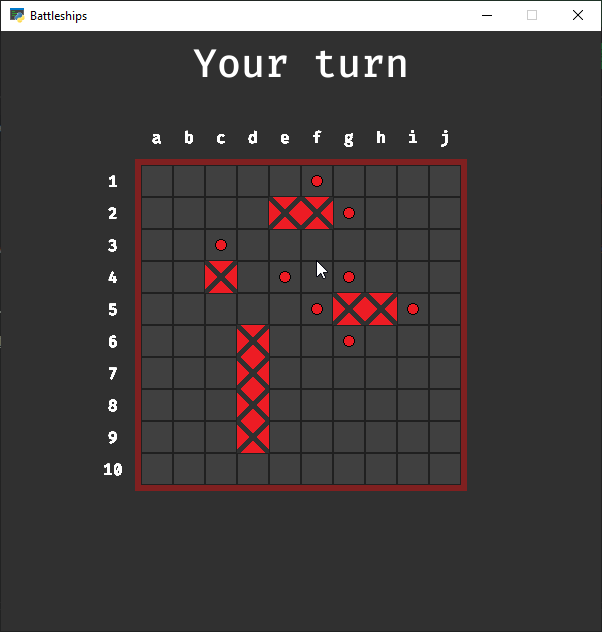
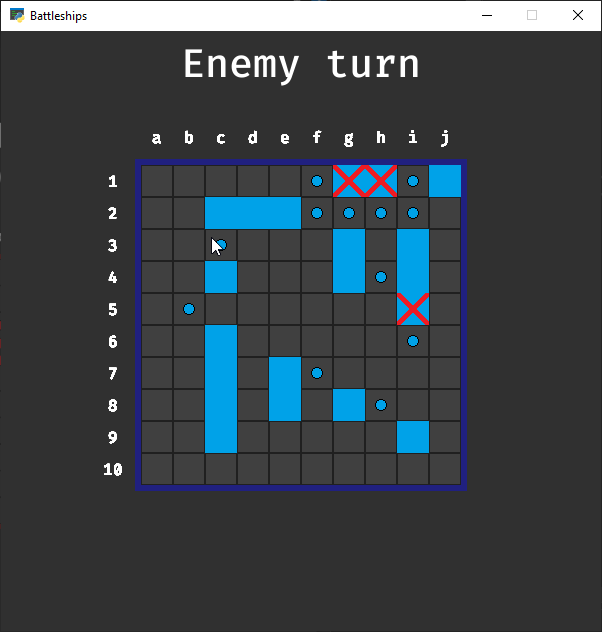
difficulty levels added

diff --git a/Battleships/src/Game.py b/Battleships/src/Game.py
@@ -22,10 +22,13 @@ class Turn(Enum):
     Enemy_To_Player = 4
 
 class Game:
-    def __init__(self):
-        self.start_game()
+    def __init__(self, difficulty: int):
+        self.start_game(difficulty)
         
-    def start_game(self):
+    def start_game(self, difficulty: int):
+        
+        self.difficulty = difficulty
+        
         self.player = Mapa.Mapa()
         self.player.generate_ships()
         
@@ -51,8 +54,7 @@ class Game:
         
     def create_restart_btn(self):
         self.restart_btn = Button.Button_With_Text("restart", Window.size[0]//2, Window.size[1]//2 + 64, 128, 64)
-        self.restart_btn.set_font_size(Theme.font_size)
-        self.restart_btn.onclick_func = lambda: self.start_game()
+        self.restart_btn.onclick_func = lambda: Window.pages.pop()
         
     def get_min_x(self) -> int:
         min_x = self.enemy_hits[0][0]
@@ -83,17 +85,29 @@ class Game:
         return max_y
 
     
-
+            
+            
     def enemy_turn(self):
        
         if time.time() - self.last_action_time < self.action_time:
             return
-
+        
+        if self.difficulty == 0 and np.random.randint(2)%2==0:
+            x, y = self.player.get_random_empty_tile()
+            
+            if x==-1 and y ==-1:
+                return
+            
+            self.player.attack_tile((x,y))
+            self.current_turn = Turn.Enemy_To_Player
+            self.last_action_time = time.time()
+            return
+                
+        
+        # ai
         if len(self.enemy_hits) == 0:
             
-                
-            x = np.random.randint(self.player.width)
-            y = np.random.randint(self.player.height)
+            x, y = self.player.get_random_empty_or_ship_tile()
 
 
             if self.player.tiles[y][x] == Mapa.empty or self.player.tiles[y][x] == Mapa.ship:
@@ -103,7 +117,8 @@ class Game:
 
                     self.enemy_hits.append((x,y))
                         
-                    if self.player.hit_sunk( (self.enemy_hits[0][0], self.enemy_hits[0][1]), set()):
+                    if self.player.hit_sunk((self.enemy_hits[0][0], self.enemy_hits[0][1]), set()):
+                        self.player.set_miss_around_ship((self.enemy_hits[0][0], self.enemy_hits[0][1]), set())
                         self.enemy_hits = []
                         self.enemy_tiles_to_hits = []
                     else:
@@ -137,6 +152,7 @@ class Game:
                 self.current_turn = Turn.Enemy_To_Player
 
             if self.player.hit_sunk((self.enemy_hits[0][0], self.enemy_hits[0][1]), set()):
+                self.player.set_miss_around_ship((self.enemy_hits[0][0], self.enemy_hits[0][1]), set())
                 self.enemy_hits = []
                 self.enemy_tiles_to_hits = []
 
@@ -183,6 +199,7 @@ class Game:
                     self.current_turn = Turn.Enemy_To_Player          
 
                 if self.player.hit_sunk((self.enemy_hits[0][0], self.enemy_hits[0][1]), set()):
+                    self.player.set_miss_around_ship((self.enemy_hits[0][0], self.enemy_hits[0][1]), set())
                     self.enemy_hits = []
                     self.enemy_tiles_to_hits = []   
          
@@ -215,7 +232,10 @@ class Game:
         
             if self.enemy.tiles[y][x] == Mapa.ship:
                 self.enemy.tiles[y][x] = Mapa.hit
-                    
+            
+            if self.enemy.hit_sunk((x,y), set()):
+                self.enemy.set_miss_around_ship((x,y), set())
+            
             if self.enemy.ships_sunks():
                 self.end_game = True
                 self.player_win = True

diff --git a/Battleships/src/Mapa.py b/Battleships/src/Mapa.py
@@ -23,6 +23,31 @@ class Mapa:
         self.h = Theme.tile_size * 10 + 2 * Theme.map_border
         self.x = Window.size[0]//2 - self.w//2
         self.y = Theme.map_margin_top
+        
+    def get_random_empty_or_ship_tile(self) -> tuple[int, int]:
+            
+            empty_tiles = []
+            for y in range(self.height):
+                for x in range(self.width):
+                    if self.tiles[y][x] == empty or self.tiles[y][x] == ship:
+                        empty_tiles.append((x,y))
+            
+            i = np.random.randint(len(empty_tiles))
+            return empty_tiles[i]
+        
+    def get_random_empty_tile(self) -> tuple[int, int]:
+            
+            empty_tiles = []
+            for y in range(self.height):
+                for x in range(self.width):
+                    if self.tiles[y][x] == empty:
+                        empty_tiles.append((x,y))
+                        
+            if len(empty_tiles) ==0:
+                return (-1,-1)
+                
+            i = np.random.randint(len(empty_tiles))
+            return empty_tiles[i]
   
     def generate_ship(self, len: int):
         
@@ -128,6 +153,34 @@ class Mapa:
         
         return True
         
+    def set_miss_around_ship(self, point: tuple[int, int], check_list: set):
+        
+        if point in check_list:
+            return
+            
+        x, y = point
+        
+        if x<0 or x>=self.width or y<0 or y>=self.height:
+            return
+            
+        check_list.add((x,y))
+        
+        if self.tiles[y][x] == empty:
+            self.tiles[y][x] = miss
+        
+        elif self.tiles[y][x] == hit:
+            self.set_miss_around_ship((x-1,y-1), check_list)
+            self.set_miss_around_ship((x,y-1), check_list)
+            self.set_miss_around_ship((x+1,y-1), check_list)
+            
+            self.set_miss_around_ship((x-1,y), check_list)
+            self.set_miss_around_ship((x+1,y), check_list)
+            
+            self.set_miss_around_ship((x-1,y+1), check_list)
+            self.set_miss_around_ship((x,y+1), check_list)
+            self.set_miss_around_ship((x+1,y+1), check_list)
+        
+    
     def ships_sunks(self):
         sunks = True
         for y in range(self.height):

diff --git a/Battleships/src/Start_Screen.py b/Battleships/src/Start_Screen.py
@@ -1,0 +1,42 @@
+import os
+import sys
+import sdl2
+import sdl2.ext
+import sdl2.sdlimage
+import time
+
+from src import Theme
+from src import Window
+from src import Text
+from src import Button
+from src import Game
+
+class Start_Screen:
+    
+    def __init__(self):
+        dist = 96
+        
+        self.easy_btn = Button.Button_With_Text("easy", Window.size[0]//2-dist, Window.size[1]//2 + 64, 128, 64)
+        self.easy_btn.onclick_func = lambda: Window.pages.append(Game.Game(0))
+        
+        self.hard_btn = Button.Button_With_Text("hard", Window.size[0]//2+dist, Window.size[1]//2 + 64, 128, 64)
+        self.hard_btn.onclick_func = lambda: Window.pages.append(Game.Game(1))
+        
+    def cursor_hover(self):
+        self.easy_btn.cursor_hover()
+        self.hard_btn.cursor_hover()
+        
+    def handle_events(self, event: sdl2.ext.events):
+        self.easy_btn.handle_events(event)
+        self.hard_btn.handle_events(event)
+        
+    def update(self):
+        self.easy_btn.update()
+        self.hard_btn.update()
+        
+    def draw(self):
+        
+        Text.draw_text_centered(Window.size[0]//2,Window.size[1]//2-64,"select difficulty", Theme.font, Theme.mid_font_size, sdl2.ext.Color(255,255,255))
+        
+        self.easy_btn.draw()
+        self.hard_btn.draw()

diff --git a/Battleships/Battleships.py b/Battleships/Battleships.py
@@ -7,36 +7,36 @@ import time
 
 sdl2.ext.init()
 
-from src import Window
 from src import Theme
+from src import Window
+from src import Start_Screen
 from src import Game
-
 
 Window.create()
 Theme.load()
-game = Game.Game()
+Window.pages.append(Start_Screen.Start_Screen())
 
 while(True):
 
+    Window.pages[-1].cursor_hover()
+
     # handle events
     events = sdl2.ext.get_events()
-
-    game.cursor_hover()
 
     for event in events:
         if event.type == sdl2.SDL_QUIT:
             exit()
             
-        game.handle_events(event)
+        Window.pages[-1].handle_events(event)
         
 
     # update
-    game.update()
+    Window.pages[-1].update()
 
     # draw
     Window.renderer.color = Window.color
     Window.renderer.clear()
-    game.draw()
+    Window.pages[-1].draw()
     Window.renderer.present()
 
     time.sleep(1/60)

diff --git a/Battleships/src/Window.py b/Battleships/src/Window.py
@@ -9,15 +9,18 @@ renderer = sdl2.ext.Renderer
 color = sdl2.ext.Color(48, 48, 48)
 size = (600, 600)
 
+pages = list
 
 def create():
     global window
     global renderer
     global color
     global size
-
+    global pages
+    
     window = sdl2.ext.Window("Battleships", size)
     window.show()
   
     renderer = sdl2.ext.Renderer(window)
 
+    pages = []

diff --git a/README.md b/README.md
@@ -12,7 +12,7 @@
 ![Zrzut ekranu](screenshots/01.png)
 ![Zrzut ekranu](screenshots/02.png)
 ![Zrzut ekranu](screenshots/03.png)
-
+![Zrzut ekranu](screenshots/04.png)
 ## Technologie
 Program stworzono w języku Python3 z wykorzystaniem biblioteki SDL2
   
